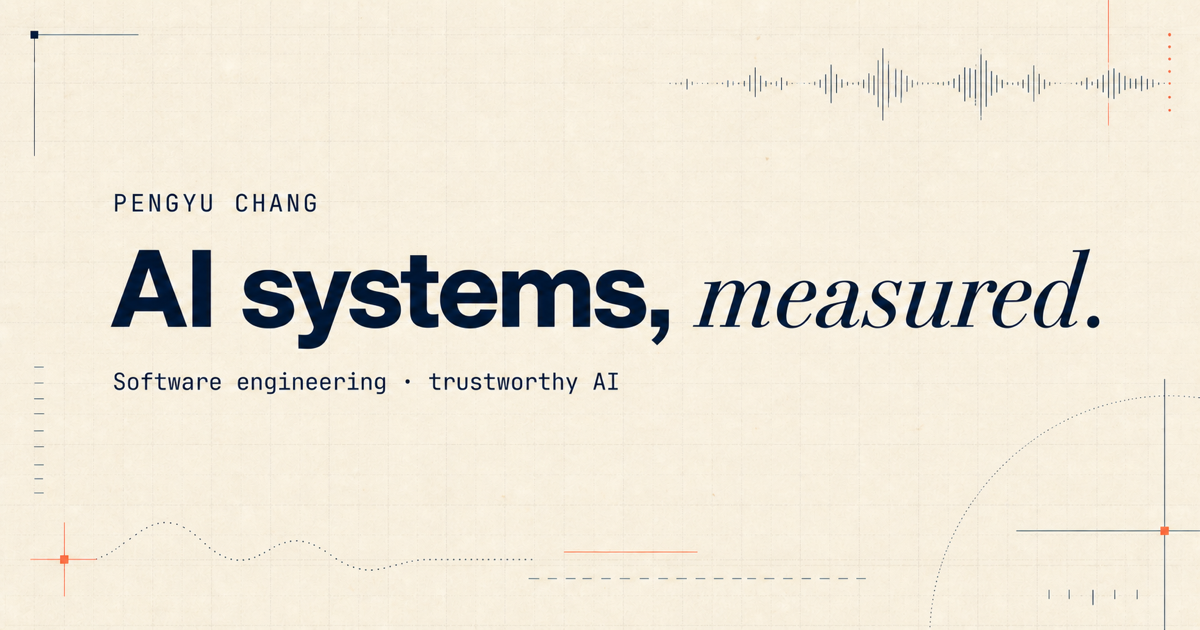
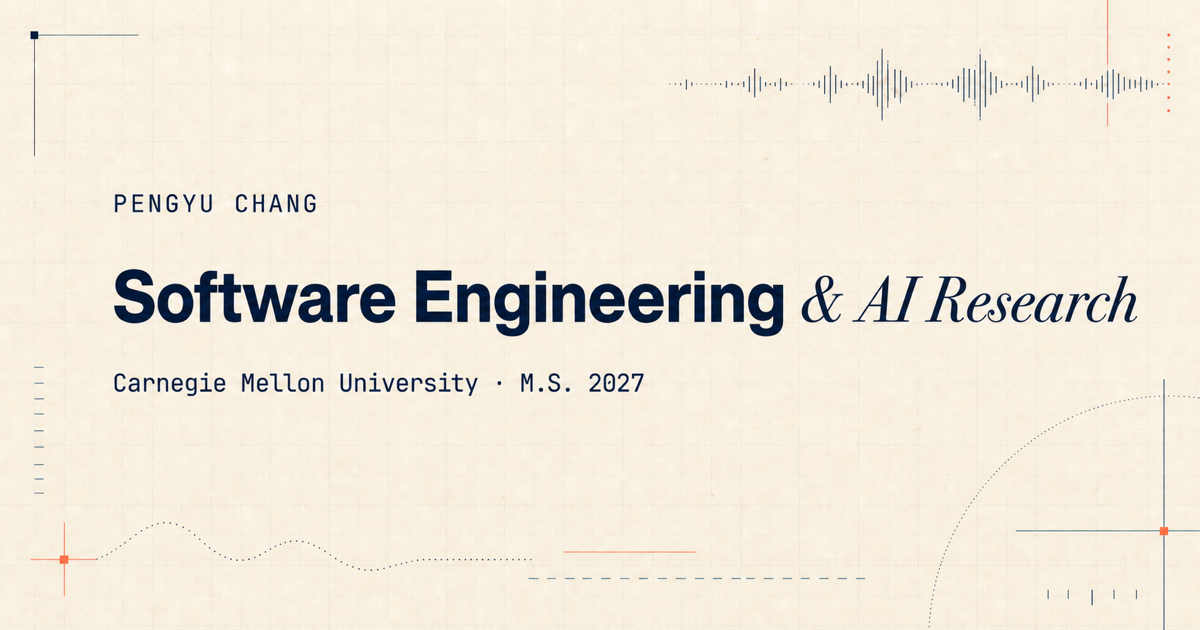
Use a more factual site tone

diff --git a/assets/css/main.scss b/assets/css/main.scss
@@ -139,10 +139,10 @@
     margin: 0;
     color: var(--portfolio-ink);
     font-family: $sans-serif;
-    font-size: clamp(4rem, 11vw, 9rem);
+    font-size: clamp(3.5rem, 9vw, 7.2rem);
     font-weight: 750;
     letter-spacing: -0.075em;
-    line-height: 0.82;
+    line-height: 0.9;
   }
 
   h1 em {
@@ -206,35 +206,6 @@
   .card-link:hover,
   .card-link:focus-visible {
     color: var(--portfolio-accent);
-  }
-
-  .hero-proof {
-    margin-top: clamp(3rem, 8vh, 6rem);
-    padding-top: 1rem;
-    border-top: 1px solid var(--portfolio-line);
-    display: grid;
-    grid-template-columns: repeat(4, minmax(0, 1fr));
-    gap: 1rem;
-  }
-
-  .proof-item {
-    display: flex;
-    flex-direction: column;
-  }
-
-  .proof-item strong {
-    color: var(--portfolio-ink);
-    font-size: clamp(1.25rem, 2.6vw, 2rem);
-    line-height: 1;
-  }
-
-  .proof-item span {
-    margin-top: 0.5rem;
-    color: var(--portfolio-muted);
-    font-family: $monospace;
-    font-size: 0.66rem;
-    text-transform: uppercase;
-    letter-spacing: 0.06em;
   }
 
   .home-section {
@@ -390,8 +361,7 @@
   }
 
   .project-card--dark .project-topline,
-  .project-card--dark p,
-  .project-card--dark .project-result span {
+  .project-card--dark p {
     color: #b9c1d0;
   }
 
@@ -414,29 +384,6 @@
     margin: 0 0 1.8rem;
     color: var(--portfolio-muted);
     font-size: 0.95rem;
-  }
-
-  .project-result {
-    padding: 1rem 0;
-    border-top: 1px solid currentColor;
-    display: flex;
-    align-items: baseline;
-    justify-content: space-between;
-    gap: 1rem;
-  }
-
-  .project-result strong {
-    font-size: 1.25rem;
-  }
-
-  .project-result span {
-    max-width: 17rem;
-    color: var(--portfolio-muted);
-    font-family: $monospace;
-    font-size: 0.58rem;
-    text-transform: uppercase;
-    letter-spacing: 0.04em;
-    text-align: right;
   }
 
   .project-card .card-link {
@@ -670,7 +617,7 @@
     padding: 0;
     border: 0;
     color: var(--portfolio-ink);
-    font-size: clamp(2.7rem, 7.5vw, 7.2rem);
+    font-size: clamp(2.7rem, 6vw, 5rem);
     font-weight: 720;
     letter-spacing: -0.065em;
     line-height: 0.92;
@@ -712,7 +659,7 @@ html[data-theme="dark"] .portfolio-home {
     }
 
     h1 {
-      font-size: clamp(3.6rem, 19vw, 6rem);
+      font-size: clamp(3rem, 15vw, 4.8rem);
     }
 
     .hero-summary {
@@ -721,10 +668,6 @@ html[data-theme="dark"] .portfolio-home {
 
     .hero-actions {
       margin-left: 0;
-    }
-
-    .hero-proof {
-      grid-template-columns: 1fr 1fr;
     }
 
     .section-heading,

diff --git a/_pages/about.md b/_pages/about.md
@@ -11,72 +11,55 @@ redirect_from:
   <section class="home-hero" aria-labelledby="intro-title">
     <div class="hero-signal" aria-label="Current status">
       <span class="signal-dot" aria-hidden="true"></span>
-      CMU · Pittsburgh, PA · M.S. 2027
+      Carnegie Mellon University · Pittsburgh, PA
     </div>
 
-    <p class="hero-kicker">Software engineer · AI systems researcher</p>
-    <h1 id="intro-title">AI systems,<br><em>measured.</em></h1>
+    <p class="hero-kicker">M.S. Information Networking · 2027</p>
+    <h1 id="intro-title">Pengyu Chang</h1>
     <p class="hero-summary">
-      I’m Pengyu Chang, a CMU graduate student building dependable AI and
-      software systems across synthetic data, LLM safety, speech,
-      observability, and storage.
+      I’m a master’s student at Carnegie Mellon University working on machine
+      learning and software systems. My interests include synthetic data,
+      model evaluation, speech, and systems infrastructure.
     </p>
 
     <div class="hero-actions" aria-label="Primary links">
-      <a class="portfolio-button portfolio-button--primary" href="#work">Explore my work <span aria-hidden="true">↘</span></a>
-      <a class="portfolio-button" href="/cv/">View résumé <span aria-hidden="true">↗</span></a>
+      <a class="portfolio-button portfolio-button--primary" href="#work">Selected work <span aria-hidden="true">↓</span></a>
+      <a class="portfolio-button" href="/cv/">Résumé <span aria-hidden="true">↗</span></a>
       <a class="portfolio-text-link" href="https://github.com/jmueducn">GitHub <span aria-hidden="true">↗</span></a>
     </div>
 
-    <div class="hero-proof" aria-label="Profile highlights">
-      <div class="proof-item">
-        <strong>4.0</strong>
-        <span>CMU GPA</span>
-      </div>
-      <div class="proof-item">
-        <strong>85%</strong>
-        <span>Less observability data</span>
-      </div>
-      <div class="proof-item">
-        <strong>~133K</strong>
-        <span>Annotated audio pairs</span>
-      </div>
-      <div class="proof-item">
-        <strong>TA</strong>
-        <span>CMU deep learning</span>
-      </div>
-    </div>
   </section>
 
   <section class="home-section" id="work" aria-labelledby="work-title">
     <header class="section-heading">
       <p class="section-index">01 / Selected work</p>
-      <h2 id="work-title">Research that makes model behavior inspectable.</h2>
+      <h2 id="work-title">Research and projects</h2>
     </header>
 
     <article class="spotlight-card">
       <div class="spotlight-meta">
-        <span>Speech · Trustworthy AI</span>
+        <span>Speech · Deepfake detection</span>
         <span>2025—26</span>
       </div>
       <div class="spotlight-body">
         <div>
-          <p class="card-label">Featured research</p>
+          <p class="card-label">Research project</p>
           <h3>CoLMbo-DF</h3>
           <p class="card-copy">
-            An audio-language-model approach to interpretable deepfake speech
-            detection, built on a large acoustic reasoning dataset.
+            CoLMbo-DF studies interpretable deepfake speech detection with
+            audio-language models. I led the construction of FakeReason, a
+            dataset with acoustic reasoning annotations.
           </p>
           <a class="card-link" href="https://arxiv.org/abs/2603.28021">Read the preprint <span aria-hidden="true">↗</span></a>
         </div>
         <dl class="metric-list">
           <div>
             <dt>~133K</dt>
-            <dd>annotated audio pairs</dd>
+            <dd>audio pairs in FakeReason</dd>
           </div>
           <div>
             <dt>98.7%</dt>
-            <dd>reported ASVspoof accuracy</dd>
+            <dd>reported accuracy on ASVspoof 2019</dd>
           </div>
           <div>
             <dt>1B</dt>
@@ -94,13 +77,10 @@ redirect_from:
         </div>
         <h3>AdverTest</h3>
         <p>
-          A multi-agent framework that generates Java unit tests to expose
-          real faults—not just increase surface-level coverage.
+          A multi-agent framework for generating Java unit tests. The study
+          compares fault detection and code coverage with LLM-based and
+          search-based baselines.
         </p>
-        <div class="project-result">
-          <strong>+8.56%</strong>
-          <span>reported fault detection vs. the strongest cited LLM method</span>
-        </div>
         <a class="card-link" href="https://arxiv.org/abs/2602.08146">Read the preprint <span aria-hidden="true">↗</span></a>
       </article>
 
@@ -111,20 +91,16 @@ redirect_from:
         </div>
         <h3>LMTransplant</h3>
         <p>
-          Data augmentation for few-shot language tasks, shaped through prompt
-          engineering and evaluated in realistic, data-scarce settings.
+          Research on synthetic data augmentation for few-shot NLP tasks. I
+          worked on task selection, prompt design, and evaluation.
         </p>
-        <div class="project-result">
-          <strong>Data → signal</strong>
-          <span>task selection, generation prompts, and evaluation</span>
-        </div>
         <a class="card-link" href="https://arxiv.org/abs/2508.14723">Read the preprint <span aria-hidden="true">↗</span></a>
       </article>
     </div>
 
     <div class="systems-intro">
       <p class="section-index">Systems work</p>
-      <p>Small enough to understand end to end. Deep enough to reveal the tradeoffs.</p>
+      <p>Projects in Go and C++ covering orchestration and storage.</p>
     </div>
 
     <div class="systems-grid">
@@ -156,7 +132,7 @@ redirect_from:
   <section class="home-section" id="experience" aria-labelledby="experience-title">
     <header class="section-heading">
       <p class="section-index">02 / Experience</p>
-      <h2 id="experience-title">From model evaluation to production observability.</h2>
+      <h2 id="experience-title">Experience</h2>
     </header>
 
     <div class="experience-list">
@@ -170,8 +146,7 @@ redirect_from:
           <p>
             Built an end-to-end synthetic-data pipeline for Gemini content
             safety. Designed structured policy taxonomies and conditional
-            generation for broader coverage and fine-grained distribution
-            control, then evaluated downstream classifiers with accuracy,
+            generation, then evaluated downstream classifiers with accuracy,
             F1, and PR-AUC.
           </p>
         </div>
@@ -186,8 +161,8 @@ redirect_from:
           </div>
           <p>
             Integrated service-mesh visualization into a Grafana and
-            Prometheus monitoring stack, reducing its data volume by 85% to
-            resolve memory bottlenecks and speed up error identification.
+            Prometheus monitoring stack. Reduced Kiali data volume by 85%,
+            resolving memory bottlenecks in the monitoring stack.
           </p>
         </div>
       </article>
@@ -201,8 +176,8 @@ redirect_from:
           </div>
           <p>
             Worked across few-shot NLP data augmentation and multi-agent LLM
-            testing, from finding meaningful downstream tasks to designing
-            generation frameworks and evaluating fault-detection capability.
+            testing, from identifying data-scarce downstream tasks to
+            designing generation frameworks and evaluating fault detection.
           </p>
         </div>
       </article>
@@ -212,7 +187,7 @@ redirect_from:
   <section class="home-section" id="about" aria-labelledby="about-title">
     <header class="section-heading">
       <p class="section-index">03 / About</p>
-      <h2 id="about-title">An engineer who follows evidence across boundaries.</h2>
+      <h2 id="about-title">About</h2>
     </header>
 
     <div class="about-grid">
@@ -221,15 +196,15 @@ redirect_from:
       </div>
       <div class="about-copy">
         <p class="about-lead">
-          I’m pursuing an M.S. in Information Networking at Carnegie Mellon,
-          where I also serve as a teaching assistant for Introduction to Deep
-          Learning. Before CMU, I earned a B.E. in Software Engineering from
-          Shanghai Jiao Tong University.
+          I’m an M.S. Information Networking student at Carnegie Mellon
+          University and a teaching assistant for Introduction to Deep
+          Learning. Before CMU, I studied Software Engineering at Shanghai
+          Jiao Tong University.
         </p>
         <p>
-          My work moves between AI research and systems engineering because
-          reliable models need both: careful data and evaluation, plus the
-          infrastructure to make results observable and repeatable.
+          I’m interested in both machine learning research and software
+          engineering, especially data generation, evaluation, speech, and
+          systems infrastructure.
         </p>
         <div class="education-grid" aria-label="Education">
           <div>
@@ -253,7 +228,7 @@ redirect_from:
 
   <section class="contact-section" id="contact" aria-labelledby="contact-title">
     <p class="section-index">04 / Contact</p>
-    <h2 id="contact-title">Have a hard problem?<br><em>Let’s make it measurable.</em></h2>
+    <h2 id="contact-title">Contact</h2>
     <div class="contact-links">
       <a class="portfolio-button portfolio-button--primary" href="mailto:pengyuch@andrew.cmu.edu">Email me <span aria-hidden="true">↗</span></a>
       <a class="portfolio-button" href="https://www.linkedin.com/in/pengyuch/">LinkedIn <span aria-hidden="true">↗</span></a>

diff --git a/_pages/cv.md b/_pages/cv.md
@@ -12,9 +12,9 @@ redirect_from:
 <div class="portfolio-cv">
   <header class="cv-intro">
     <div>
-      <p class="cv-kicker">Software engineering · AI systems</p>
+      <p class="cv-kicker">Software engineering · Machine learning research</p>
       <h1>Pengyu Chang</h1>
-      <p>CMU M.S. Information Networking candidate building measurable AI and dependable software systems.</p>
+      <p>CMU M.S. Information Networking student with experience in machine learning research and software engineering.</p>
     </div>
     <div class="cv-actions">
       <button type="button" class="cv-print" onclick="window.print()">Print / save PDF</button>
@@ -55,8 +55,8 @@ redirect_from:
         <p class="cv-subtitle">Software Engineering Intern · San Francisco, CA</p>
         <ul>
           <li>Built an end-to-end synthetic-data generation pipeline for Gemini content safety across multiple policy areas.</li>
-          <li>Designed a two-stage approach using structured policy taxonomies and conditional generation for broad policy coverage and fine-grained output-distribution control.</li>
-          <li>Iteratively evaluated and improved downstream safety-classifier performance using accuracy, F1, and PR-AUC.</li>
+          <li>Designed a two-stage approach using structured policy taxonomies and conditional generation.</li>
+          <li>Evaluated downstream safety classifiers using accuracy, F1, and PR-AUC and iterated on both pipeline stages.</li>
         </ul>
       </div>
     </div>
@@ -66,7 +66,7 @@ redirect_from:
         <h3>Electronic Arts</h3>
         <p class="cv-subtitle">Software Engineer Intern · Shanghai, China</p>
         <ul>
-          <li>Integrated Kiali service-mesh visualization into a Grafana and Prometheus monitoring stack, reducing data volume by 85% to resolve memory bottlenecks and accelerate error identification.</li>
+          <li>Integrated Kiali service-mesh visualization into a Grafana and Prometheus monitoring stack and reduced Kiali data volume by 85%, resolving memory bottlenecks.</li>
         </ul>
       </div>
     </div>
@@ -78,7 +78,7 @@ redirect_from:
         <ul>
           <li>Contributed to <a href="https://arxiv.org/abs/2508.14723">LMTransplant</a>, identifying data-scarce downstream tasks, engineering synthetic-data prompts, and evaluating realistic few-shot NLP scenarios.</li>
           <li>Designed and implemented <a href="https://arxiv.org/abs/2602.08146">AdverTest</a>, a first-author multi-agent LLM framework for Java unit-test generation.</li>
-          <li>Reported 8.56% stronger fault detection than the cited best LLM method and 63.30% over EvoSuite, alongside line- and branch-coverage gains.</li>
+          <li>Evaluated fault detection, line coverage, and branch coverage against LLM-based methods and EvoSuite.</li>
         </ul>
       </div>
     </div>
@@ -94,7 +94,7 @@ redirect_from:
         <ul>
           <li>Led construction of FakeReason, an approximately 133K-pair audio dataset with acoustic chain-of-thought annotations.</li>
           <li>Built a pipeline combining ASVspoof 2019 LA and VoxCeleb2 with approximately 20K synthesized deepfakes and acoustically grounded reasoning annotations.</li>
-          <li>Enabled a 1B-parameter model to reach a reported 98.7% accuracy on ASVspoof 2019.</li>
+          <li>A 1B-parameter model trained with the dataset reached a reported 98.7% accuracy on ASVspoof 2019.</li>
         </ul>
       </div>
     </div>
@@ -123,7 +123,8 @@ redirect_from:
   <section class="cv-section cv-skills" aria-labelledby="cv-skills">
     <h2 id="cv-skills">Skills</h2>
     <p><strong>Languages</strong> Python, C++, C, Java, Go, JavaScript, TypeScript</p>
-    <p><strong>AI / ML</strong> PyTorch, LangChain, LLM APIs, synthetic data, model evaluation, NLP, speech and deepfake detection</p>
+    <p><strong>ML tools</strong> PyTorch, LangChain, LLM APIs</p>
+    <p><strong>Research areas</strong> Synthetic data, model evaluation, NLP, speech and deepfake detection</p>
     <p><strong>Systems / Data</strong> Kafka, Redis, MySQL, MongoDB, Prometheus, Grafana, Istio, NFS, storage engines</p>
   </section>
 </div>
